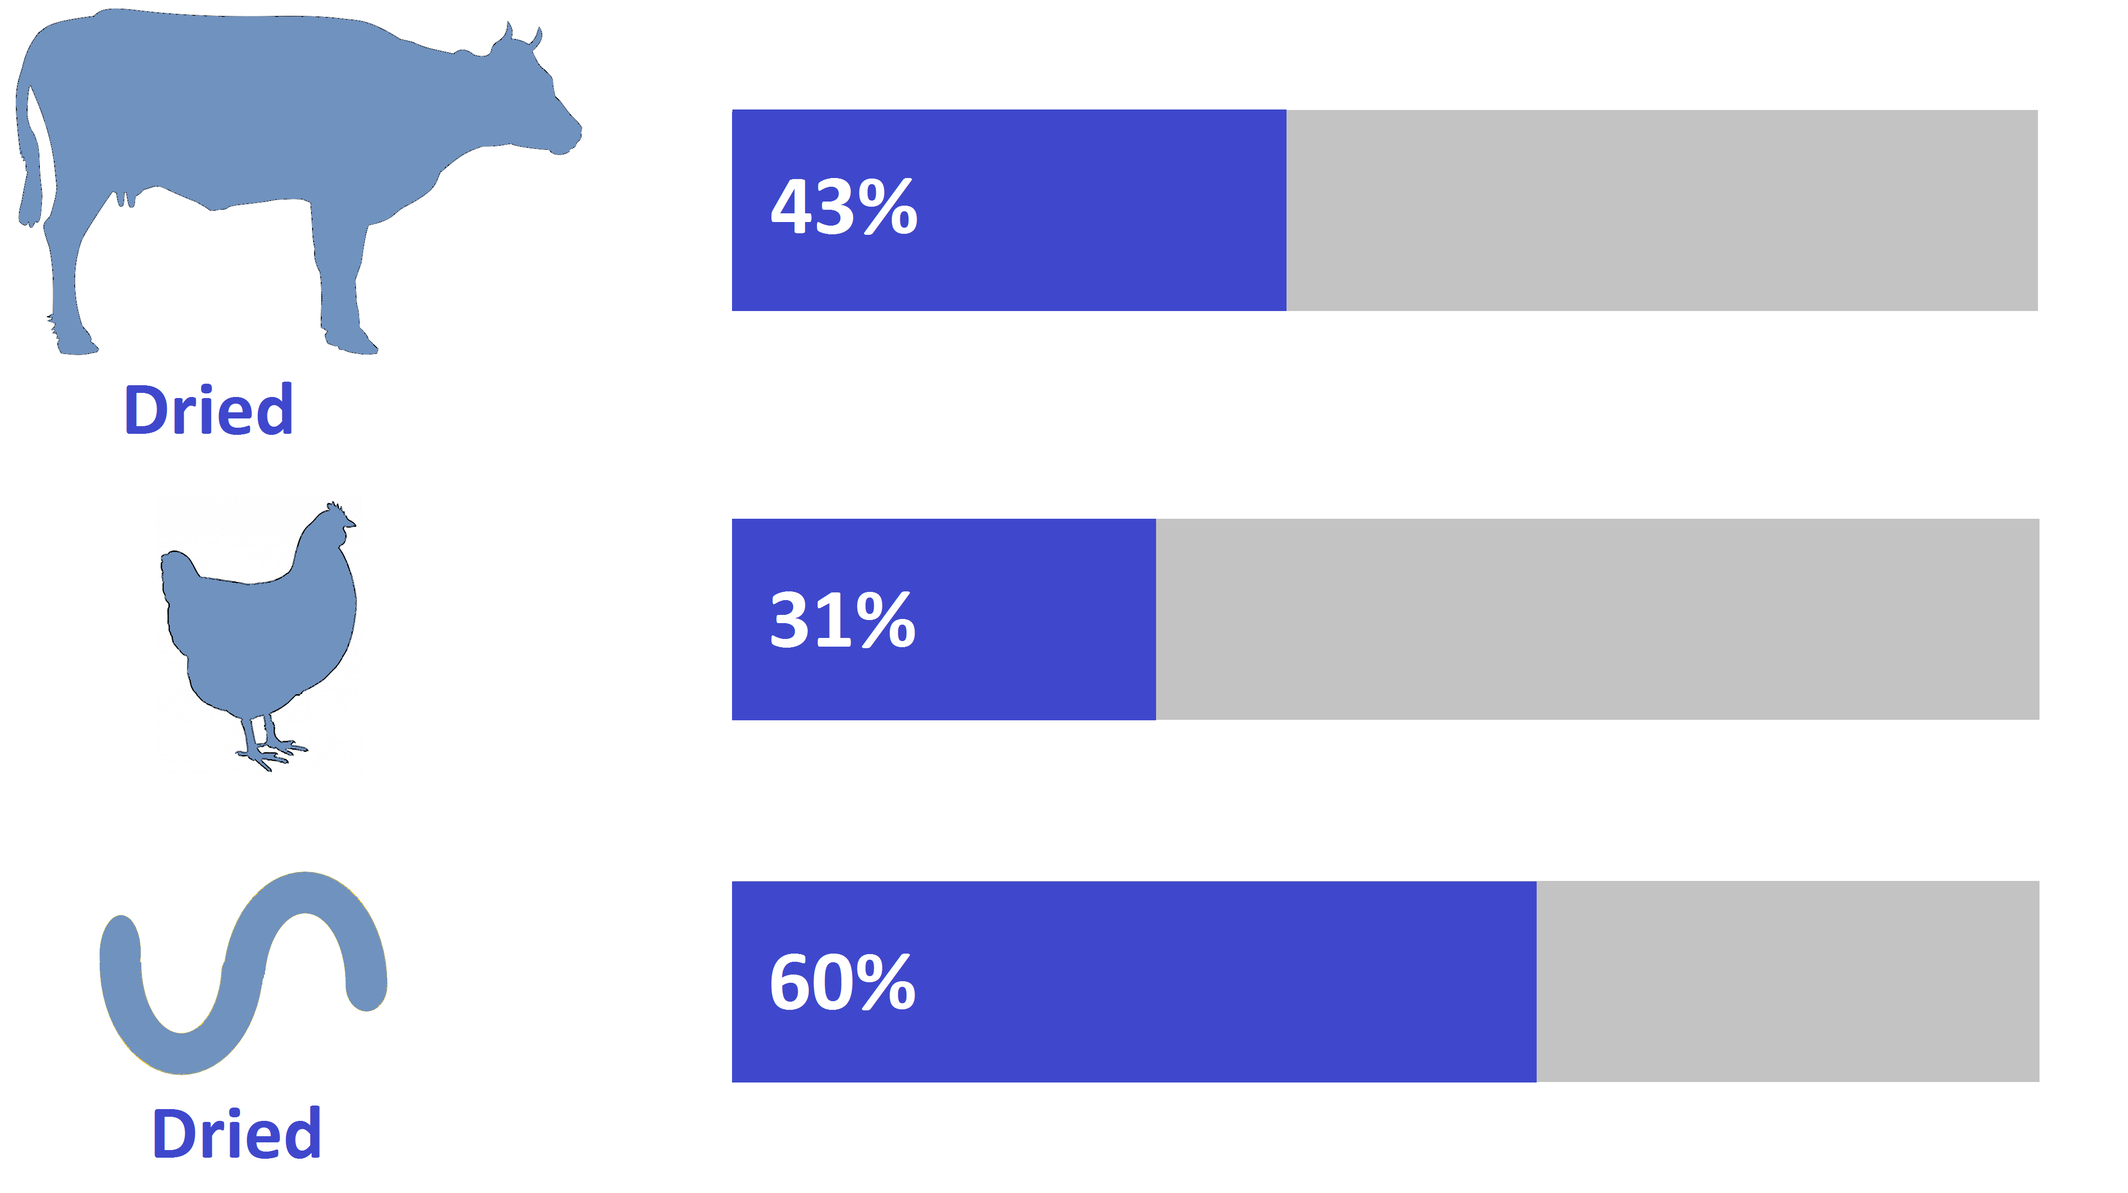
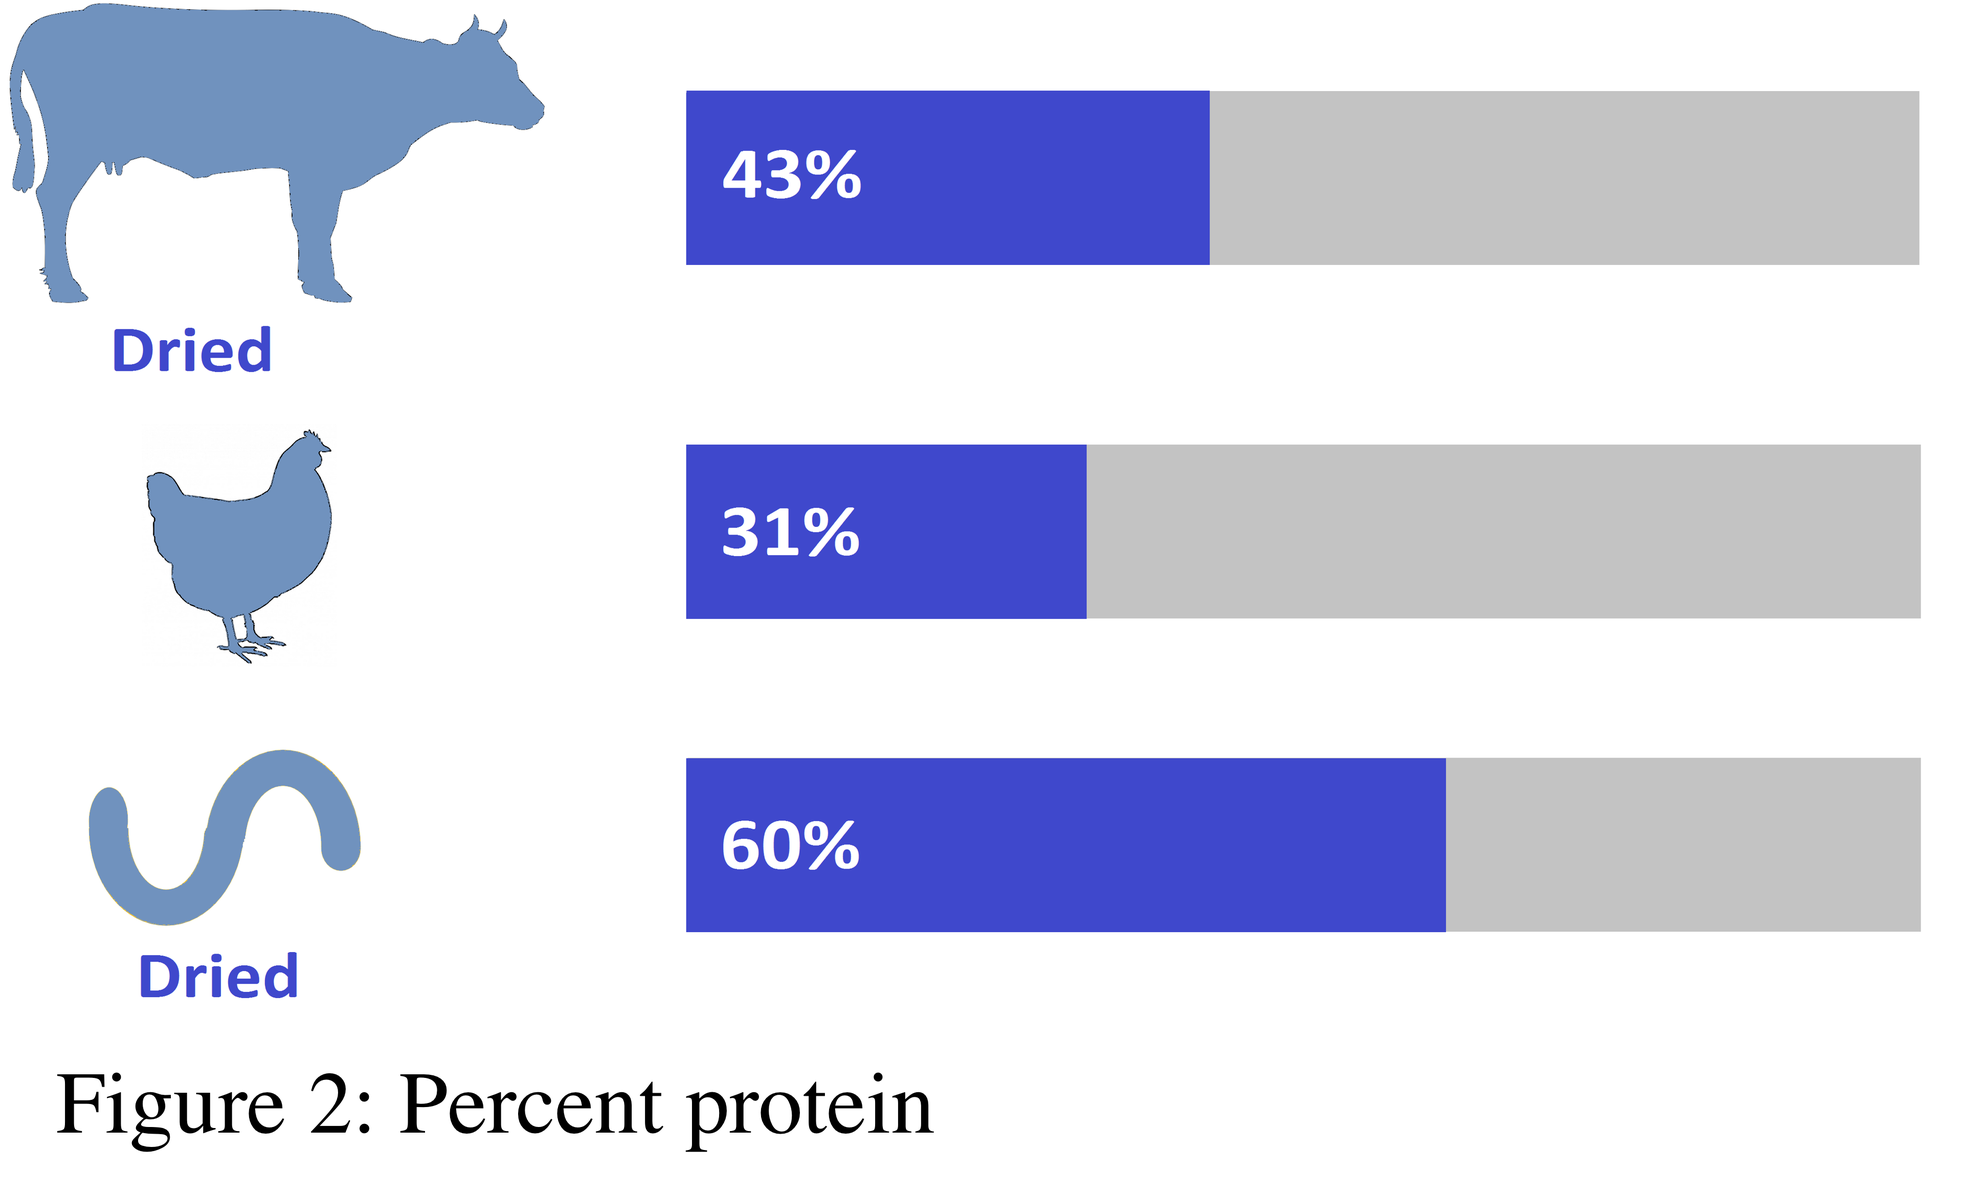
concept note page

diff --git a/concept-note.html b/concept-note.html
@@ -4,7 +4,7 @@
         <meta charset="utf-8">
         <meta http-equiv="X-UA-Compatible" content="IE=edge">
         <meta name="viewport" content="width=device-width, initial-scale=1">
-        <title>assan - Professional theme</title>
+        <title>MIGHTi - Project Concept Note</title>
 
         <!-- Bootstrap -->
         <link href="bootstrap/css/bootstrap.min.css" rel="stylesheet">
@@ -119,12 +119,12 @@
             <div class="container">
                 <div class="row">
                     <div class="col-sm-6">
-                        <h4>Blank page</h4>
+                        <h4>Concept Note</h4>
                     </div>
                     <div class="col-sm-6 hidden-xs text-right">
                         <ol class="breadcrumb">
                             <li><a href="index.html">Home</a></li>
-                            <li>Blank</li>
+                            <li>Concept Note</li>
                         </ol>
                     </div>
                 </div>
@@ -132,7 +132,166 @@
         </div><!--breadcrumbs-->
         <div class="divide80"></div>
         <div class="container">
-            <h4>Put you content here</h4>
+            <font color = "323B7E">
+            <h3>PROJECT CONCEPT NOTE</h3>
+            
+<h5>Introduction:</h5>
+
+<p class="dropcap">In 2013, University of Wisconsin PhD students Rachel Bergmans and Valerie Stull co-developed The Mission to Improve Global Health Through Insects (MIGHTi) – a collaborative research project, business idea, and innovation designed to address the multifaceted and systematic factors that contribute to food insecurity in Southern Africa while simultaneously joining a global effort to re-envision food systems in a changing climate. The project promotes edible insect production (also called microlivestock farming) as a sustainable protein source for human consumption and animal feed – one that supports healthy people and a healthy planet. Mealworms are more environmentally friendly than conventional livestock and are nutrient dense; they require little labor, little water, and quickly recycle agricultural waste making them an ideal food source for resource poor areas. The project proposal won a national US Agriculture Innovation Prize in April 2014, and the MIGHTi team is now beginning the research and development phase.</p>
+
+<p>MIGHTi is committed to empowering women, and is specifically interested in working with women’s cooperatives, women’s groups, and schools. MIGHTi will use culturally tailored, context specific microlivestock kits that are environmentally and economically sustainable to help farmers produce an added protein source for rural diets and supplement for animal feed year round. MIGHTi’s long-term vision is to expand the reach of insect products by encouraging consumption in urban areas and by those suffering from malnutrition through the sale of a mealworm protein powder.</p>
+
+<h5>Project Overview:</h5>
+
+<p class="dropcap">We, as MIGHTi, seek to investigate the potential for women’s cooperatives and schools in rural communities to raise and sell insects (such as mealworms) to boost protein intake, improve food security, and supplement household income.</p>
+
+<p>To combat food insecurity in rural communities, sustainable agricultural solutions that provide locally produced, year-round food sources are needed. Insect farming offers one potential option to sustainably feed a growing population without the environmental consequences or high costs of conventional agriculture or livestock production. Insect consumption in Zimbabwe and Zambia is common, where women are accustomed to collecting and selling insects. Overharvesting, however, poses a risk of ecological damage and wild insects are not available year round, limiting their utility for food security. To build on the cultural acceptability of insect consumption while also protecting the environment, we intend to research the potential for in-home mealworm farming (using state-of-the-art kits, limited food scraps, and inexpensive feed) to produce a highly nutritious protein source. One potential insect to farm is the mealworm. Mealworms (the larval form of the mealworm beetle, Tenebrio molitor) are common throughout the world and used in many places to supplement human nutrition and animal feed. Mealworms survive on a flexible diet of bio-waste (leaves, food scraps etc.) and poultry feed –ideal for inexpensive in-house farming. They are a favorable alternative to traditional livestock production for human consumption due to reduced greenhouse gas emissions, minimal land requirements, and climate resilience.</p>
+
+<h5>Background & Justification:</h5>
+
+            <p class="dropcap"> Why Insects? </p>
+
+    <img src="img/GWP_mealworm.png" alt="Global Warming Potential" style="width:500px; padding-left: 25px" align = "right">
+
+
+            <p> In 2013, the UN Food and Agriculture Organization (FAO) highlighted insect consumption (entomophagy) as one possible solution to feeding the 870 million struggling with hunger worldwide. Insects provide an inexpensive source of dietary protein and essential nutrients; therefore, farming insects, also known as microlivestock farming, can benefit communities with inadequate food supplies.1 Compared with other livestock, insects require drastically fewer inputs and have a low global warming potential (see Figure 1). Insects need only ~2 kg of feed for each kg of weight gain – an important consideration since agriculture is responsible for up to 24% of today’s greenhouse gas emissions.2 With increased climatic pressure on agriculture, particularly in developing countries, insect consumption may offer an important antidote to food security pressures. Recently, efforts have been made to promote insect production for food across the globe. In South Africa, flies are being used to convert biodegradable waste into nutrient rich and cost effective animal feed.3 FAO is also funding microlivestock research across parts of Southeast Asia.4–6 The international excitement around entomophagy and its potential to improve global food security is rooted in its nutritional, environmental, and social benefits.</p>
+
+            <h5>Why farming?</h5>
+
+<p class = "dropcap"> In Zambia and Zimbabwe, people consume many types of insects.7 Mopane worms, for example, are frequently collected and sold by women and are an important protein and income source. However, mopane worms are only available twice per year, at which time the market becomes saturated,7–11 limiting their utility for year-round food security. There is also a risk of overharvesting mopane worms, which can cause ecological damage. Thus, encouraging increased collection is not sustainable. While entomophagy is common in Southern Africa and globally, little effort has been made to understand the potential impact of insect farming on food security, livelihoods, the environment, or economic development. We aim to address this knowledge gap by pilot testing a project that promotes insect consumption for both humans and animals by teaching people to farm insects.</p>
+
+<p>Specifically, our project will introduce mealworm farming to rural communities in Zambia and Zimbabwe.</p>
+
+<h5>Why Mealworms?</h5>
+
+<p class = "dropcap">Mealworms are common throughout the world and produced in many places as a nutritional supplement for animal feed and human consumption. Mealworms are nutritionally equivalent to mopane worms and have a similar flavor,12,13 but they survive on a flexible diet of bio-waste (such as corn husks, food scraps, leaves, etc.), grain, or poultry feed – ideal for inexpensive in-house farming. Not only do mealworms utilize available food sources more efficiently than other livestock, they can also breakdown low-nutrient byproducts of common crops grown in Southern Africa (such as maize, wheat, millet and peanuts) and quickly recycle them into high-quality food, rich in protein, energy, and fat. Locally sourced waste products provide adequate nutrition for mealworms and come at little cost, especially for rural farmers who have access to such waste. Mealworms are also easy to raise, and with limited processing (short boiling and solar drying) harvested mealworms can be used to improve household food security. First, dried or fried mealworms can be eaten directly. Second, they can be sold locally (as human food or animal feed) to generate income. Other markets for sales may also exist, including health clinics that treat malnutrition or to organizations that provide famine relief products (currently made from protein sources like whey or soy).</p>
+
+<img src="img/percent_protein.png" alt="Protein Composition" style="width:500px; padding-left: 25px" align = "right">
+
+<p>Laboratory experiments suggest that yellow mealworms are appropriate for human consumption, as they contain all 22 amino acids (including the essential amino acids) and have a protein content between 63.31 and 68.87% of dry weight with balanced feed.13 See comparisons with other protein sources in Figure 2. </p>
+
+<h5>Why Southern Africa?</h5>
+
+<p class = "dropcap">Southern Africa offers a perfect launching platform for this project because insect consumption is already practiced and common in the region, but wild harvested insects have not yet solved the food insecurity problem. The market for edible insects in Zambia and Zimbabwe is substantial. Our diverse team has ample experience in Southern Africa; collectively, we have knowledge of international development, sustainable farming, nutrition, cooperatives, food security, edible insect products, and insect farming. While our initial efforts will focus on Zambia and Zimbabwe, the results of our research will be applicable to surrounding areas including Mozambique, southern Angola, and Botswana. We are actively seeking in-country partners in Zambia and Zimbabwe for a pilot test.</p>
+
+            <h3>Overall Goal:</h3>
+
+<p><i>Our goal is to address the multifaceted and systematic factors that contribute to food insecurity by collaborating with rural women’s cooperatives and schools to investigate the acceptability of farming insects and determine whether year-round insect production and consumption can feasibly improve local food security and health.</i></p>
+
+<h5>Study Aims:</h5>
+
+<ul>
+    <li>Collaborate with local women’s cooperatives and leaders in the entomophagy industry to develop culturally acceptable microlivstock kits and farming protocol that will efficiently produce an environmentally sustainable protein source year-round for human and animal consumption.</li>
+<li>Evaluate the environmental and health impact of microlivestock farming in rural communities by measuring a variety of indicators (ex. feed conversion, nutritional quality on different feed types, economic benefits, and health outcomes such as allostatic load, chronic hunger, and anaemia).</li>
+            </ul>
+            <p> </p>
+            <h5>Significance and Future Aims:</h5>
+
+<p class = "dropcap">The commercial edible insect industry, as well as broader microlivestock farming, is rapidly growing in size and popularity worldwide. Yet, the potential positive (or negative) impact of such efforts is unknown.  Currently, 80% of the world’s population consumes insects, yet national food regulatory agencies, such as the United States Federal Drug Administration (FDA) and the European Food Safety Agency (EFSA) are only in the initial stages of conducting insect consumption risk assessment.4  This project will provide understanding of whether promoting insect consumption and introducing microlivestock farming to rural areas can provide a safe, sustainable, and effective means to improve global food security. It will also inform future research efforts which aim to assess whether an insect protein powder (derived from dried, roasted, and ground insects) added to traditional foods or as supplement for the treatment of chronic malnutrition can effectively reduce nutrient deficiencies among populations where whole insect consumption may not be accepted or preferred. Insects are dairy-free, gluten-free, and soy-free, so that insect powder may be an ideal source of protein for populations with restrictive diets. </p>
+
+<h5>Funding:</h5>
+
+<p class = "dropcap">Funding awarded from the 2014 United States National Agricultural Innovation Prize and the 2014 Wisconsin Energy and Sustainability Challenge currently supports MIGHTi. Additional funding is needed to advance research efforts, establish pilot test sites, and thoroughly explore environmental and health impacts of rural microlivestock farming.</p>
+
+<h3>Timeline – Currently Funded Action Items</h3>
+
+<p>June to July 2014: Developed preliminary survey tool</p>
+
+            <ul>
+<li>Designed to assess individual and community level food security, community level social capital, individual demographics, and individual practice and preference of methods for raising mealworms for microlivestock farming, consumption, and animal feed
+</li>
+            </ul>
+
+            <p>August 2014: Scoping Visit</p>
+            <ul>
+                <li>Travel to Lusaka to meet with in-country partners at the University of Zambia</li>
+<li>Visit eastern and southern provinces of Zambia to identify pilot communities</li>
+<li>Test survey tool among community stewards to ensure meaningful translation and culturally relevant questions</li>
+ </ul>
+
+                <br></br>
+<h3>Timeline – Action Items that Require Additional Funding</h3>
+
+<p>Fall 2014: Preparation for Pilot Study</p>
+<ul>
+<li>Adapt survey tool based on scoping visit</li>
+<li>Raise mealworms in a controlled environment to assess nutrient quality when raised on various diets</li>
+<li>Obtain IRB approval for pilot study</li>
+</ul>
+<p>Spring to Summer 2015: Pilot Study Phase 1</p>
+
+<ul>
+            <li>Conduct local surveys, focus groups, and taste testing of mealworms alongside commonly consumed insects (such as crickets and mopane worms) and traditional foods (such as sadza).</li>
+<li>Administer survey tool among up to 30 community members from two rural Zambian villages (pilot communities)</li>
+<li>Collect biological samples (blood and urine) to determine feasibility of a larger study that will investigate health outcomes such as allostatic load, BMI, and anemia in response to promoting local microlivestock farming</li>
+</ul>
+    
+    <p>Fall 2015: Pilot Study Phase 2</p>
+<ul>
+<li>Collaborate with pilot communities to develop locally sourced and context specific microlivestock kits for rearing edible insects year round based on information gathered from Phase 1</li>
+</ul>
+            <p>
+    Spring to Summer 2016: Pilot Study Phase 3
+</p>
+            <ul>
+<li>Provide microlivestock kits for 2 to 3 community groups across pilot communities</li>
+<li>Collect data on how many kilograms of insects are produced from the microlivestock kits and their nutrient quality</li>
+<li>Collect baseline data using survey tool and biological samples from community groups (up to 200 people)</li>
+<li>Collect follow up data 4 months after microlivestock kit implementation using survey tool and biological samples</li>
+
+            </ul>
+            <br></br>
+                <h5>Contact Information & Research Team:</h5>
+
+<p>Valerie Stull, MPH, Nelson Institute for Environmental Studies, Center for Sustainability and the Global Environment, University of Wisconsin-Madison, USA</p>
+
+            <ul>
+<li>Email: vstull@wisc.edu</li>
+<li>Profile: http://www.sage.wisc.edu/people/stull/stull.html</li>
+            </ul>
+    
+            <p>Rachel Bergmans, MPH, Population Health Sciences Department, School of Medicine, University of Wisconsin-Madison, USA</p>
+
+            <ul>
+<li>Contact Email: bergmans@wisc.edu</li>
+<li>Profile: http://www.pophealth.wisc.edu/node/2071</li>
+ </ul>
+
+        <br></br>
+<h5>Collaborators & Scientific Advisory Board:</h5>
+
+            <ul>
+<li>Jonathan Patz, Director, Global Health Institute, Professor of Environmental Studies & Population Health Sciences, University of Wisconsin, Madison USA.</li>
+<li>Kristen Malecki, PhD. Co-Director, Survey of the Health of Wisconsin, Assistant Professor of Population Health Sciences, University of Wisconsin, Madison USA.</li>
+<li>Michael Bell, PhD. Director, Center for Integrated Agricultural Systems and Professor of Community and Environmental Sociology, University of Wisconsin, Madison USA.</li>
+<li>Harman Johar, Founder of World Entomophagy (http://worldento.com)</li>
+<li>Tiny Farms, LLC, San Francisco, California, USA (http://www.tiny-farms.com)</li>
+<li>EG Nadeau, PhD. Director Cooperative Development Research and Resource Center, US Overseas Cooperative Development Council</li>
+ </ul>
+
+    <br></br>
+<h5>References</h5>
+
+ 
+<ol>
+    <font color = "#323B7E">
+<li>Van Huis A, Van Itterbeeck J, Klunder H, et al. Edible insects Future prospects for food and feed security. Rome: Food and Agriculture Organization of the United Nations ({FAO)}; 2013. Available at: http://www.fao.org/docrep/018/i3253e/i3253e00.htm. Accessed November 13, 2013.</li>
+<li>Vermeulen SJ, Campbell BM, Ingram JSI. Climate Change and Food Systems. Annu Rev Environ Resour. 2012;37(1):195–222. doi:10.1146/annurev-environ-020411-130608.</li>
+<li>Innovation Prize for Africa – The Future We Innovate. Available at: http://innovationprizeforafrica.org/winners-news-release/.</li>
+<li>Durst Patrick B, Johnson D V, Leslie RN, Shono K. Edible Forest Insects, Humans Bite Back.</li>
+<li>Hanboonsong Y, Jamjanya T, Durst Patrick B. Six-legged livestock: edible insect farming, collecting, and marketing in Thailand.; 2013.</li>
+<li>Lao PDR and FAO Achievements and success stories. FAO Representation in Lao People’s Democratic Republic; 2011.
+Dube S, Dlamini N, Mafunga A, Mukai M, Dhlamini Z. A Survey on Entomophagy Prevalence in Zimbabwe. African J Food Agric Nutr Dev. 2013;13(1).</li>
+<li>Vetter S. Southern Africa: Angola and Namibia. {WWF} Trop Subtrop Grasslands, Savannas Shrublands. Available at: http://worldwildlife.org/ecoregions/at0702. Accessed January 20, 2014.</li>
+<li>Estes L, Greyling L. Southeastern Africa: South Africa, Mozambique, Botswana, Zambia, Zimbabwe, Swaziland, Namibia, and Malawi. {WWF} Trop Subtrop grasslands, savannas shrublands. Available at: http://worldwildlife.org/ecoregions/at0725. Accessed January 20, 2014.</li>
+<li>Wessels D, Member M, Potgeiter M, Gardiner A, Ghazoul J, Pearce J. Mopane Woodlands and the Mopane Worm: Enhancing rural livelihoods and resource sustainability.; 2006. Available at: http://r4d.dfid.gov.uk/PDF/Outputs/Forestry/R7822-FTR.pdf.</li>
+<li>Domesticating caterpillars helps the very poor in south-central Africa. Mopane Worm Farming: a new mini-livestock system. Available at: http://www.researchintouse.com/nrk/RIUinfo/PF/FRP41.htm.</li>
+<li>Dreyer JJ, Wehmeyer AS. On the Nutritive Value of Mopanie Worms. S Afr J Sci. 1982;78:33–35.</li>
+<li>Ghaly A, Alkoaik F. The Yellow Mealworm as a Novel Source of Protein. Am J Agric Biol Sci. 2009;4(4):319–331.</li>
+    <li><font color = "323B7E">Oonincx DGAB, de Boer IJM. Environmental Impact of the Production of Mealworms as a Protein Source for Humans – A Life Cycle Assessment. {PLoS} {ONE}. 2012;7(12):e51145. doi:10.1371/journal.pone.0051145.</font></li>
+    </font>
+        </ol>
+                </font>
         </div>
         <div class="divide60"></div>
                  <footer id="footer">
